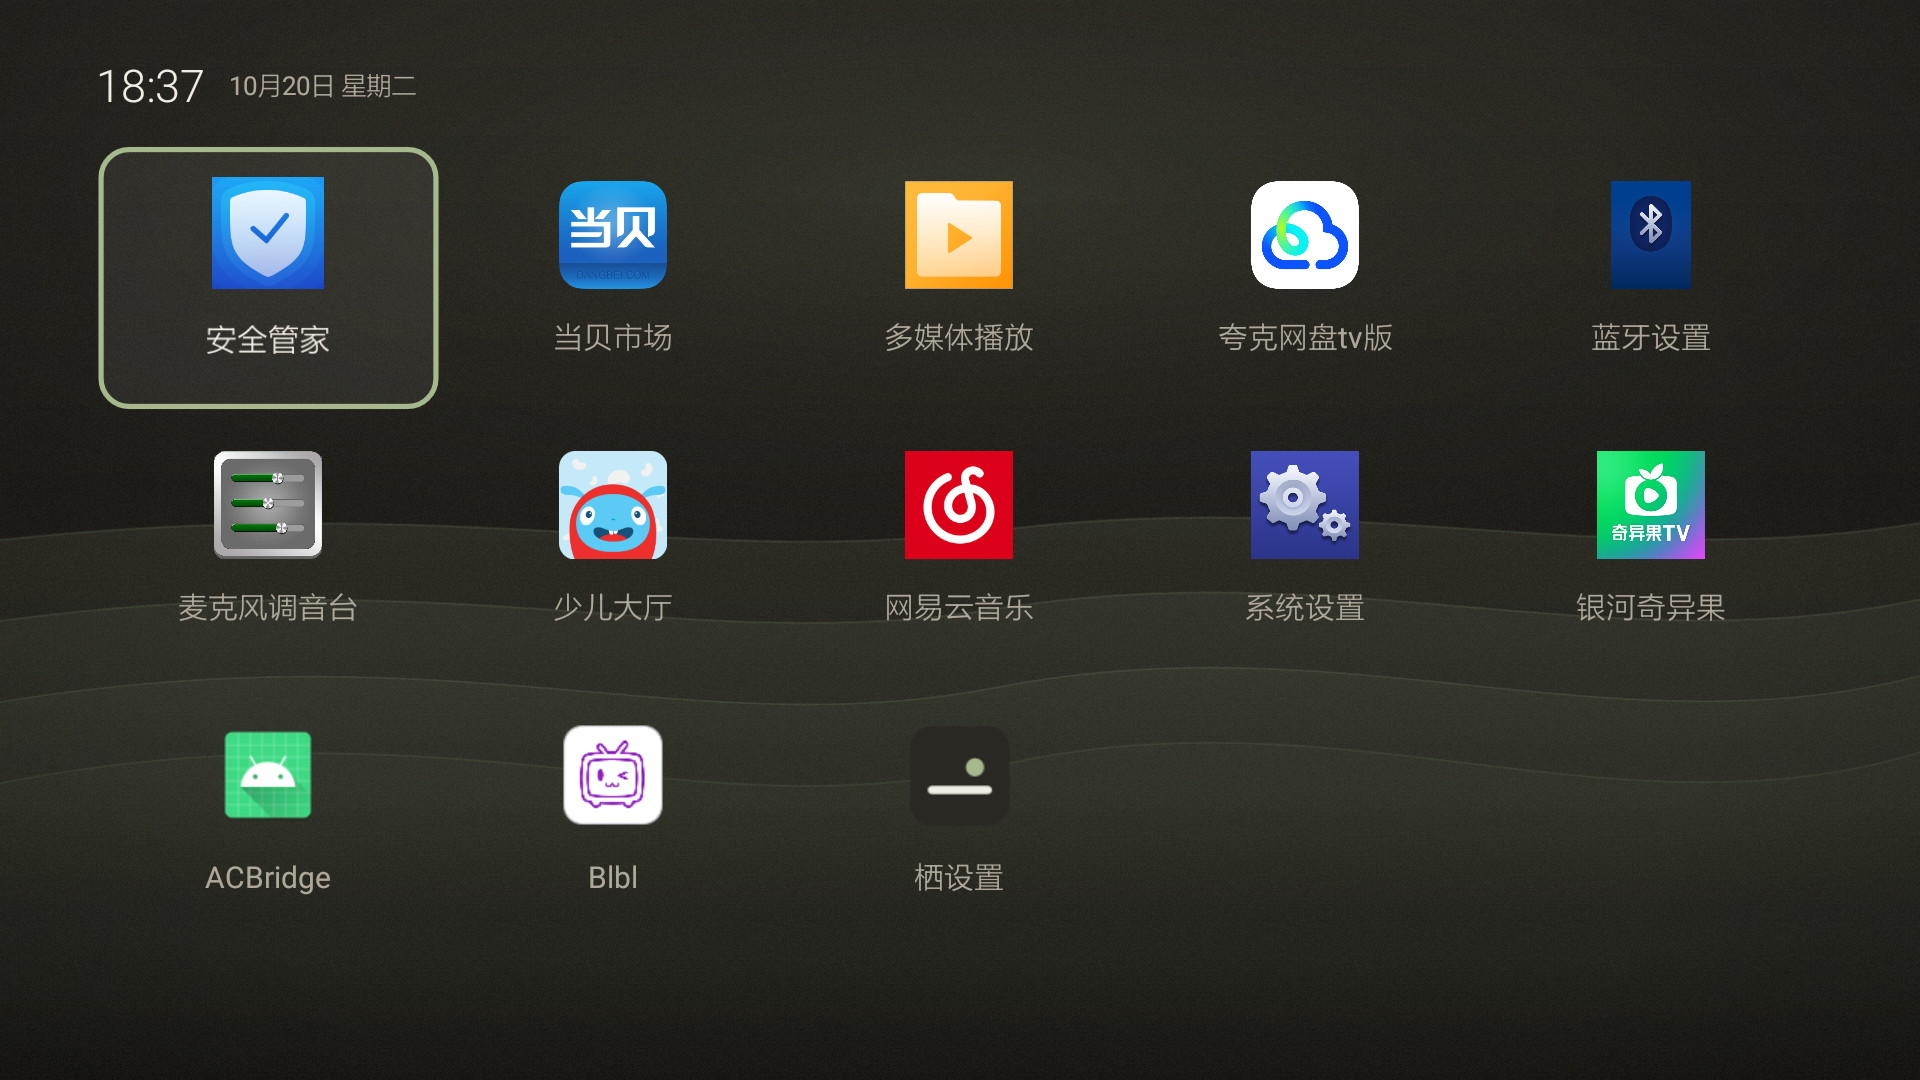
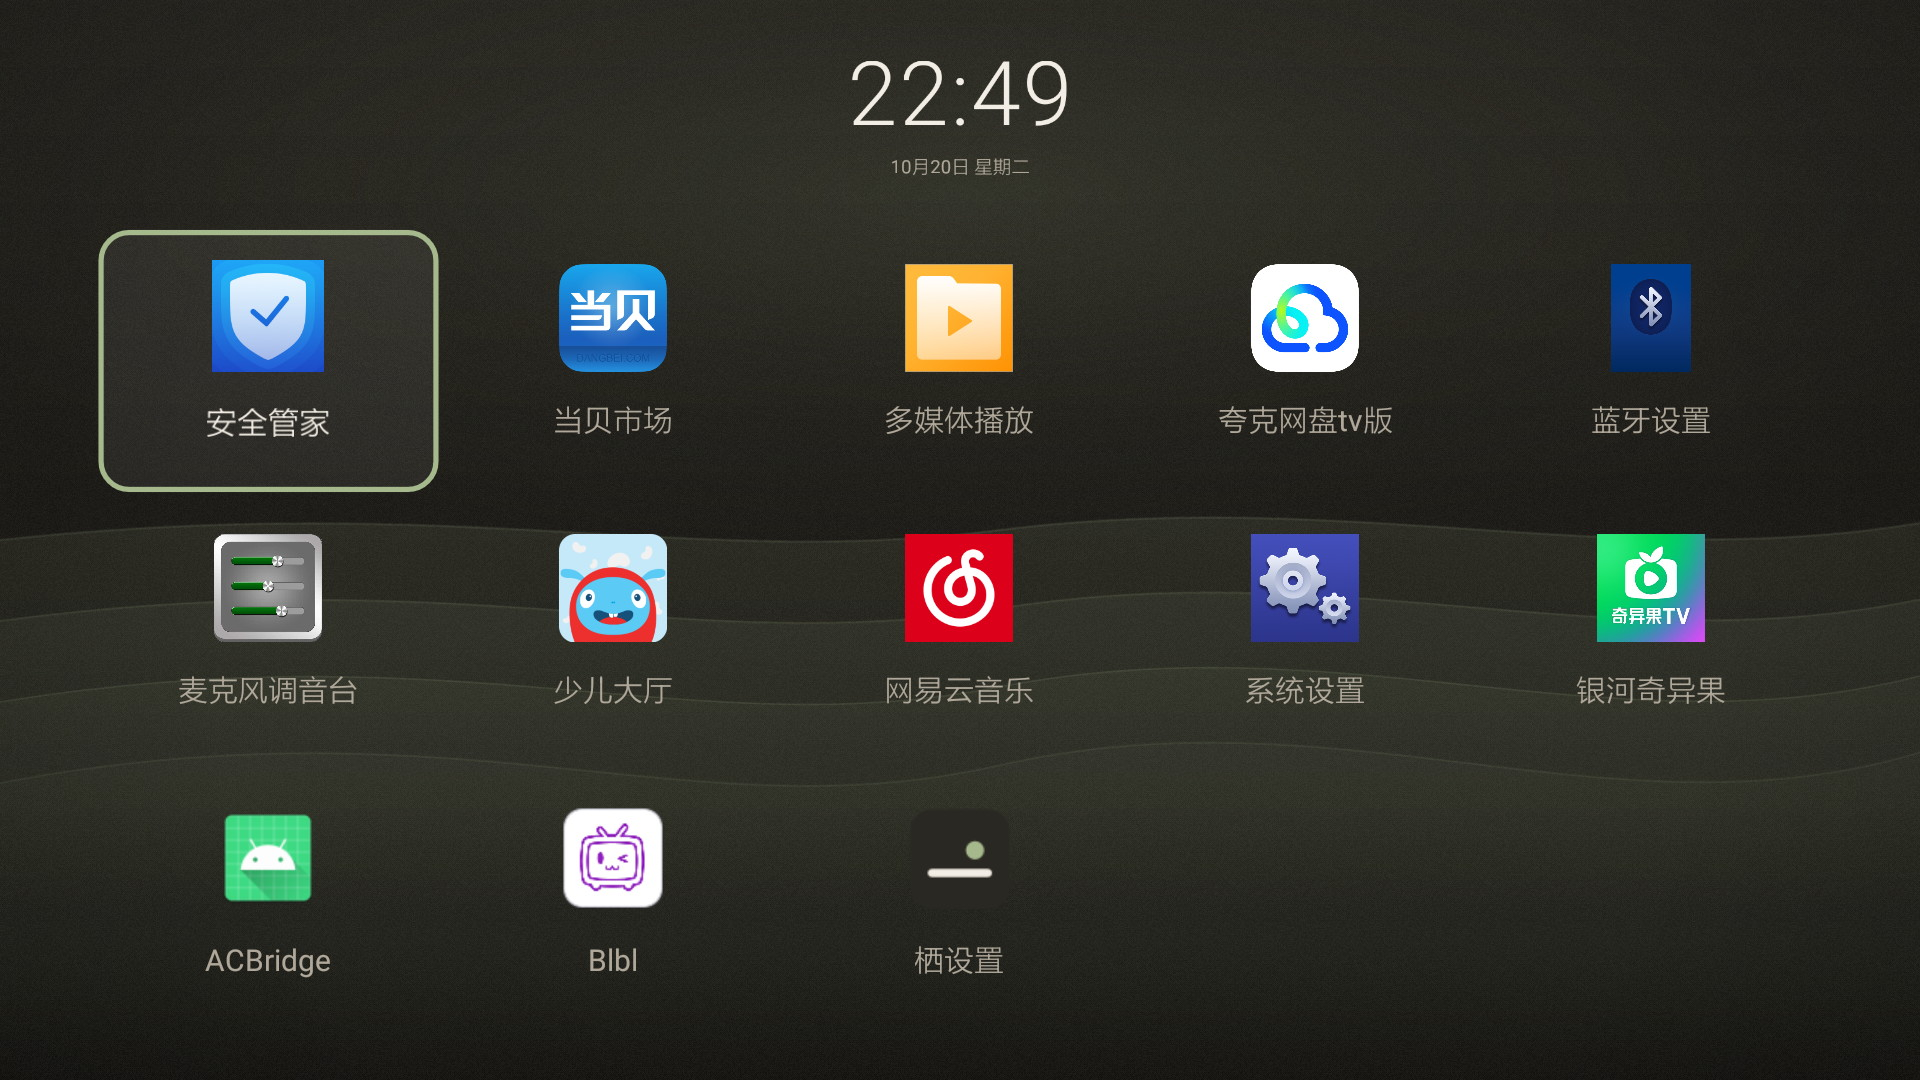
Make the clock one shared element across the expand transition
The all-apps screen had its own small clock in the top-left, so expanding
cross-faded two views at different positions and the time appeared to jump.
The first-screen clock now shrinks and lifts into the header slot while it
stays centered, and the grid is offset below it so scrolled tiles never pass
under the time.

diff --git a/src/io/github/duanechen520/perch/MainActivity.java b/src/io/github/duanechen520/perch/MainActivity.java
@@ -50,6 +50,10 @@ public class MainActivity extends Activity {
     private static final long IP_REFRESH_MS = 15000L;
     private static final long LONG_PRESS_MS = 550L;
     private static final int COLUMNS = 5;
+    private static final float HERO_EXPANDED_SCALE = 0.62f;
+    private static final int HERO_EXPANDED_TOP_DP = 28;
+    private static final int HERO_GRID_GAP_DP = 16;
+    private static final int HERO_FALLBACK_HEIGHT_DP = 150;
 
     private static final int QUICK_NETWORK = 1;
     private static final int QUICK_BLUETOOTH = 2;
@@ -67,11 +71,11 @@ public class MainActivity extends Activity {
     private final List<TextView> appLabels = new ArrayList<TextView>();
     private final List<TextView> sheetLabels = new ArrayList<TextView>();
 
-    private final Runnable hideCompact = new Runnable() {
+    private final Runnable hideCompactRow = new Runnable() {
         @Override
         public void run() {
             if (expanded) {
-                compactContainer.setVisibility(View.GONE);
+                compactRow.setVisibility(View.GONE);
             }
         }
     };
@@ -102,10 +106,7 @@ public class MainActivity extends Activity {
     private LinearLayout sheet;
     private TextView heroTime;
     private TextView heroDate;
-    private TextView smallTime;
-    private TextView smallDate;
     private TextView ipCompact;
-    private TextView ipFull;
 
     private SharedPreferences prefs;
     private DateFormat timeFormat;
@@ -370,48 +371,10 @@ public class MainActivity extends Activity {
         fullLayer.setOrientation(LinearLayout.VERTICAL);
         fullLayer.setAlpha(0f);
         fullLayer.setVisibility(View.GONE);
+        applyGridOffset();
         root.addView(fullLayer, new FrameLayout.LayoutParams(
                 ViewGroup.LayoutParams.MATCH_PARENT,
                 ViewGroup.LayoutParams.MATCH_PARENT));
-
-        LinearLayout topBar = new LinearLayout(this);
-        topBar.setOrientation(LinearLayout.HORIZONTAL);
-        topBar.setGravity(Gravity.CENTER_VERTICAL);
-        topBar.setPadding(dp(64), dp(40), dp(64), dp(4));
-        fullLayer.addView(topBar, new LinearLayout.LayoutParams(
-                ViewGroup.LayoutParams.MATCH_PARENT,
-                ViewGroup.LayoutParams.WRAP_CONTENT));
-
-        smallTime = new TextView(this);
-        smallTime.setTextColor(color(R.color.text_primary));
-        smallTime.setTextSize(TypeScale.topClock(this));
-        smallTime.setTypeface(Typeface.create("sans-serif-light", Typeface.NORMAL));
-        smallTime.setIncludeFontPadding(false);
-        topBar.addView(smallTime, new LinearLayout.LayoutParams(
-                ViewGroup.LayoutParams.WRAP_CONTENT,
-                ViewGroup.LayoutParams.WRAP_CONTENT));
-
-        smallDate = new TextView(this);
-        smallDate.setTextColor(color(R.color.text_secondary));
-        smallDate.setTextSize(TypeScale.aux(this));
-        smallDate.setIncludeFontPadding(false);
-        smallDate.setImportantForAccessibility(View.IMPORTANT_FOR_ACCESSIBILITY_NO);
-        LinearLayout.LayoutParams smallDateParams = new LinearLayout.LayoutParams(
-                ViewGroup.LayoutParams.WRAP_CONTENT,
-                ViewGroup.LayoutParams.WRAP_CONTENT);
-        smallDateParams.leftMargin = dp(16);
-        topBar.addView(smallDate, smallDateParams);
-
-        Space barSpacer = new Space(this);
-        topBar.addView(barSpacer, new LinearLayout.LayoutParams(0, 1, 1f));
-
-        ipFull = new TextView(this);
-        ipFull.setTextSize(TypeScale.aux(this));
-        ipFull.setTextColor(color(R.color.text_secondary));
-        ipFull.setVisibility(View.GONE);
-        topBar.addView(ipFull, new LinearLayout.LayoutParams(
-                ViewGroup.LayoutParams.WRAP_CONTENT,
-                ViewGroup.LayoutParams.WRAP_CONTENT));
 
         fullScroll = new ScrollView(this);
         fullScroll.setFillViewport(true);
@@ -517,7 +480,7 @@ public class MainActivity extends Activity {
             hideSheetImmediately(false);
         }
         cancelAnimations();
-        handler.removeCallbacks(hideCompact);
+        handler.removeCallbacks(hideCompactRow);
 
         compactRow.removeAllViews();
         fullGrid.removeAllViews();
@@ -560,11 +523,12 @@ public class MainActivity extends Activity {
                     ViewGroup.LayoutParams.WRAP_CONTENT));
         }
 
-        compactContainer.setVisibility(expanded ? View.GONE : View.VISIBLE);
-        compactContainer.setAlpha(1f);
+        compactContainer.setVisibility(View.VISIBLE);
+        compactRow.setVisibility(expanded ? View.GONE : View.VISIBLE);
         fullLayer.setVisibility(expanded ? View.VISIBLE : View.GONE);
         fullLayer.setAlpha(expanded ? 1f : 0f);
         if (expanded) {
+            applyGridOffset();
             setCompactCollapsedVisuals();
         } else {
             resetCompactVisuals();
@@ -738,16 +702,17 @@ public class MainActivity extends Activity {
         }
         expanded = expand;
         cancelAnimations();
-        handler.removeCallbacks(hideCompact);
+        handler.removeCallbacks(hideCompactRow);
 
         final boolean animate = animationsEnabled();
         if (expand) {
+            applyGridOffset();
+            compactRow.setVisibility(View.VISIBLE);
             fullLayer.setVisibility(View.VISIBLE);
             fullLayer.setAlpha(animate ? 0f : 1f);
-            compactContainer.setVisibility(View.VISIBLE);
             if (animate) {
-                heroClock.animate().scaleX(0.62f).scaleY(0.62f)
-                        .alpha(0f).translationY(-dp(44))
+                heroClock.animate().scaleX(HERO_EXPANDED_SCALE).scaleY(HERO_EXPANDED_SCALE)
+                        .translationY(heroExpandedTranslationY())
                         .setDuration(220L).start();
                 compactRow.animate().alpha(0f).translationY(dp(24))
                         .setDuration(180L).start();
@@ -756,13 +721,13 @@ public class MainActivity extends Activity {
             } else {
                 setCompactCollapsedVisuals();
             }
-            handler.postDelayed(hideCompact, animate ? 240L : 0L);
+            handler.postDelayed(hideCompactRow, animate ? 240L : 0L);
             fullScroll.scrollTo(0, 0);
             focusArea(true, focusedPackage);
         } else {
-            compactContainer.setVisibility(View.VISIBLE);
+            compactRow.setVisibility(View.VISIBLE);
             if (animate) {
-                heroClock.animate().scaleX(1f).scaleY(1f).alpha(1f)
+                heroClock.animate().scaleX(1f).scaleY(1f)
                         .translationY(0f).setDuration(220L).start();
                 compactRow.animate().alpha(1f).translationY(0f)
                         .setDuration(220L).start();
@@ -1015,26 +980,43 @@ public class MainActivity extends Activity {
         heroClock.setScaleY(1f);
         heroClock.setAlpha(1f);
         heroClock.setTranslationY(0f);
+        compactRow.setVisibility(View.VISIBLE);
         compactRow.setAlpha(1f);
         compactRow.setTranslationY(0f);
     }
 
     private void setCompactCollapsedVisuals() {
-        heroClock.setScaleX(0.62f);
-        heroClock.setScaleY(0.62f);
-        heroClock.setAlpha(0f);
-        heroClock.setTranslationY(-dp(44));
+        heroClock.setScaleX(HERO_EXPANDED_SCALE);
+        heroClock.setScaleY(HERO_EXPANDED_SCALE);
+        heroClock.setAlpha(1f);
+        heroClock.setTranslationY(heroExpandedTranslationY());
         compactRow.setAlpha(0f);
         compactRow.setTranslationY(dp(24));
+    }
+
+    /** Keeps the clock centered while it shrinks toward the top of the screen. */
+    private float heroExpandedTranslationY() {
+        float height = heroClock.getHeight() > 0
+                ? heroClock.getHeight() : dp(HERO_FALLBACK_HEIGHT_DP);
+        return dp(HERO_EXPANDED_TOP_DP) - heroClock.getTop()
+                - height * (1f - HERO_EXPANDED_SCALE) / 2f;
+    }
+
+    /** The grid starts below the shrunk clock so scrolled tiles never run under it. */
+    private void applyGridOffset() {
+        if (fullLayer == null) {
+            return;
+        }
+        float height = heroClock != null && heroClock.getHeight() > 0
+                ? heroClock.getHeight() : dp(HERO_FALLBACK_HEIGHT_DP);
+        int offset = Math.round(dp(HERO_EXPANDED_TOP_DP) + height * HERO_EXPANDED_SCALE);
+        fullLayer.setPadding(0, offset + dp(HERO_GRID_GAP_DP), 0, 0);
     }
 
     private void applyTypeScale() {
         heroTime.setTextSize(TypeScale.heroClock(this));
         heroDate.setTextSize(TypeScale.heroDate(this));
-        smallTime.setTextSize(TypeScale.topClock(this));
-        smallDate.setTextSize(TypeScale.aux(this));
         ipCompact.setTextSize(TypeScale.aux(this));
-        ipFull.setTextSize(TypeScale.aux(this));
         for (TextView label : appLabels) {
             label.setTextSize(TypeScale.appLabel(this));
         }
@@ -1042,6 +1024,15 @@ public class MainActivity extends Activity {
             label.setTextSize(TypeScale.sheet(this));
         }
         root.requestLayout();
+        heroClock.post(new Runnable() {
+            @Override
+            public void run() {
+                applyGridOffset();
+                if (expanded) {
+                    heroClock.setTranslationY(heroExpandedTranslationY());
+                }
+            }
+        });
     }
 
     private void updateTimeFormats() {
@@ -1068,21 +1059,17 @@ public class MainActivity extends Activity {
         String date = dateFormat.format(now);
         if (!time.contentEquals(heroTime.getText())) {
             heroTime.setText(time);
-            smallTime.setText(time);
         }
         if (!date.contentEquals(heroDate.getText())) {
             heroDate.setText(date);
-            smallDate.setText(date);
         }
         String description = getString(R.string.a11y_clock, time, date);
         heroClock.setContentDescription(description);
-        smallTime.setContentDescription(description);
     }
 
     private void updateIpVisibility() {
         int visibility = showIp ? View.VISIBLE : View.GONE;
         ipCompact.setVisibility(visibility);
-        ipFull.setVisibility(visibility);
         if (showIp) {
             updateIp();
         } else {
@@ -1103,7 +1090,6 @@ public class MainActivity extends Activity {
                 ? getString(R.string.ip_none)
                 : getString(R.string.ip_connected, ip);
         ipCompact.setText(text);
-        ipFull.setText(text);
     }
 
     private String findLanIpv4() {

diff --git a/src/io/github/duanechen520/perch/TypeScale.java b/src/io/github/duanechen520/perch/TypeScale.java
@@ -72,17 +72,6 @@ final class TypeScale {
         return appLabel(context);
     }
 
-    static float topClock(Context context) {
-        String preset = get(context);
-        if (SMALL.equals(preset)) {
-            return 26f;
-        }
-        if (LARGE.equals(preset)) {
-            return 34f;
-        }
-        return 30f;
-    }
-
     static float heroClock(Context context) {
         int heightDp = context.getResources().getConfiguration().screenHeightDp;
         return heightDp < 650 ? 80f : 96f;

diff --git a/README.md b/README.md
@@ -21,6 +21,7 @@ Most TV launchers are storefronts. Perch is a place to land: one calm screen, th
 
 - Large 24-hour clock and locale-aware date by default, or follow the system's 12/24-hour setting.
 - Compact first screen with five apps; ↓ expands to a 5-column, scrollable grid.
+- The clock is one shared element: expanding shrinks it and lifts it to the top while it stays centered, and the grid opens below it.
 - ↑ on the first screen opens quick settings: network, Bluetooth, display, sound, accessibility, all settings, and Perch settings.
 - Long-press OK on any app to pin or unpin it. Up to five pinned apps move to the front and are marked with a small moss dot.
 - Text size presets (small, standard, large) apply to app labels, menus, and settings. The clock size is fixed.
@@ -206,7 +207,7 @@ App icons and app names shown in the screenshots belong to their respective appl
 
 **栖（Perch）** 是一个安静、离线、无广告的 Android TV 桌面。
 
-首屏只有大时钟、日期和一排应用；按 ↓ 展开全部应用，按 ↑ 打开顶部快捷设置，长按 OK 可在最多 5 个范围内置顶应用，BACK 从列表回到大时钟。字号支持小、标准、大三档，时钟支持 24 小时或跟随系统，本机 IP 显示仅作为默认关闭的调试选项。
+首屏只有大时钟、日期和一排应用；按 ↓ 展开全部应用（时钟是同一个视图连续缩小上移、始终居中，应用矩阵从它下方展开），按 ↑ 打开顶部快捷设置，长按 OK 可在最多 5 个范围内置顶应用，BACK 从列表回到大时钟。字号支持小、标准、大三档，时钟支持 24 小时或跟随系统，本机 IP 显示仅作为默认关闭的调试选项。
 
 它不申请 INTERNET 权限，没有广告、遥测、推荐位和第三方 SDK；唯一权限是用于读取本机 IP 的 `ACCESS_NETWORK_STATE`。界面使用 5% 安全边距、3dp 焦点环、不低于 16sp 的文字和高对比度配色，并为每个应用提供单条无障碍描述。背景「苔阶」由 Canvas 渐变、四道山脊与细颗粒实时绘制，不打包任何图片资源，720p 到 8K 共用同一套比例坐标。
 

diff --git a/CHANGELOG.md b/CHANGELOG.md
@@ -8,6 +8,7 @@
 - Fixed the compact app row stretching when fewer than five apps are installed; the row now holds five equal slots.
 - App tiles now reserve two label lines and center their content, so the focus ring hugs the tile instead of trailing empty space.
 - The clock in the all-apps header now follows the text-size preset.
+- The clock in the all-apps header is now the same view as the first-screen clock: it shrinks and rises while staying centered, instead of cross-fading into a second clock in the corner. The all-apps grid starts below it, so scrolled tiles never pass under the time.
 - Verified on an Android 5.1.1 TV box at 1080p and at a forced 720p, including a real reboot with Perch as the only home app.
 
 ## 0.1.0 - 2026-10-20
